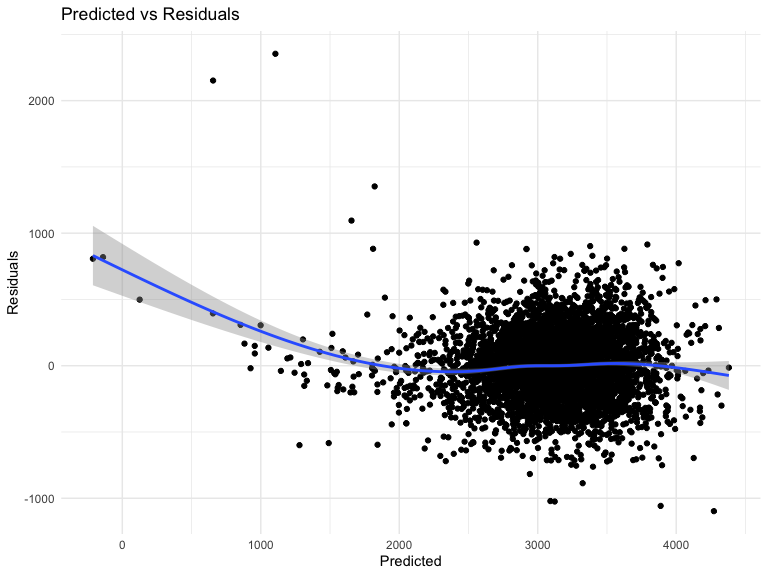
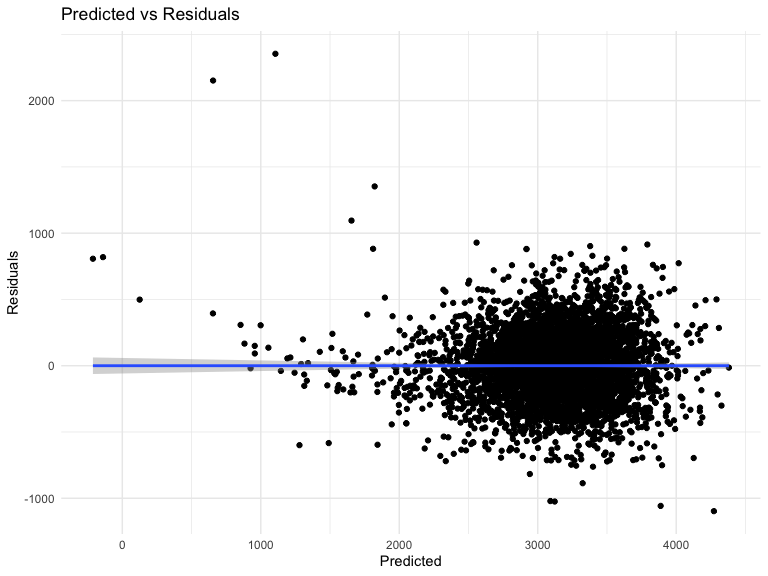
final version 1.0

Changed region(s): [[0.0938, 0.4062, 0.6875, 0.6562], [0.75, 0.625, 0.9688, 0.6875]]

diff --git a/p8105_zl2978.md b/p8105_zl2978.md
@@ -22,25 +22,6 @@ homicide =
     victim_race %in% c("White", "Black"),
     city_state != "Tulsa, AL") %>% 
   select(city_state, resolution, victim_age, victim_race, victim_sex)
-```
-
-    ## Parsed with column specification:
-    ## cols(
-    ##   uid = col_character(),
-    ##   reported_date = col_double(),
-    ##   victim_last = col_character(),
-    ##   victim_first = col_character(),
-    ##   victim_race = col_character(),
-    ##   victim_age = col_double(),
-    ##   victim_sex = col_character(),
-    ##   city = col_character(),
-    ##   state = col_character(),
-    ##   lat = col_double(),
-    ##   lon = col_double(),
-    ##   disposition = col_character()
-    ## )
-
-``` r
 baltimore =
   homicide %>% 
   filter(city_state == "Baltimore, MD")
@@ -109,16 +90,6 @@ birthweight =
          frace = recode(frace, "1" = "White", "2" = "Black", "3" = "Asian", "4" = "Puerto Rican", "8" = "Other", "9" = "Unknown"),
          malform = recode(malform, "0" = "absent", "1" = "present"),
          mrace = recode(mrace, "1" = "White", "2" = "Black", "3" = "Asian", "4" = "Puerto Rican", "8" = "Other"))
-```
-
-    ## Parsed with column specification:
-    ## cols(
-    ##   .default = col_double()
-    ## )
-
-    ## See spec(...) for full column specifications.
-
-``` r
 number_of_na = sum(is.na(birthweight))
 check_incomelete = sum(!complete.cases(birthweight))
 ```
@@ -162,12 +133,192 @@ birthweight %>%
     add_residuals(fit1) %>% 
     ggplot(aes(x = pred, y = resid)) +
         geom_point()  + 
-    geom_smooth() + 
+    geom_smooth(method = "lm") + 
     labs(title = "Predicted vs Residuals", 
        x = "Predicted", 
        y = "Residuals")
 ```
 
-    ## `geom_smooth()` using method = 'gam' and formula 'y ~ s(x, bs = "cs")'
-
 <img src="p8105_zl2978_files/figure-gfm/unnamed-chunk-6-1.png" width="90%" />
+As we can see, the residuals are almost symmetrical to 0, and there is
+no obvious relationship between the predicted value since the points are
+clustered together and the line is almost flat.
+
+Then I will compare my model to two other models.
+
+``` r
+## length at birth and gestational age as predictors (main effects only)
+fit2 = lm(bwt ~ blength + gaweeks, data = birthweight) 
+fit2 %>% 
+  broom::tidy() %>% 
+  knitr::kable()
+```
+
+| term        |     estimate | std.error |  statistic | p.value |
+| :---------- | -----------: | --------: | ---------: | ------: |
+| (Intercept) | \-4347.66707 | 97.958360 | \-44.38281 |       0 |
+| blength     |    128.55569 |  1.989891 |   64.60439 |       0 |
+| gaweeks     |     27.04673 |  1.717930 |   15.74379 |       0 |
+
+``` r
+## One using head circumference, length, sex, and all interactions (including the three-way interaction)
+fit3 = lm(bwt ~ bhead * blength * babysex, data = birthweight) 
+fit3 %>% 
+  broom::tidy() %>% 
+  knitr::kable()
+```
+
+| term                      |      estimate |    std.error |   statistic |   p.value |
+| :------------------------ | ------------: | -----------: | ----------: | --------: |
+| (Intercept)               |  \-801.948671 | 1102.3077046 | \-0.7275180 | 0.4669480 |
+| bhead                     |   \-16.597546 |   34.0916082 | \-0.4868514 | 0.6263883 |
+| blength                   |   \-21.645964 |   23.3720477 | \-0.9261475 | 0.3544209 |
+| babysexmale               | \-6374.868351 | 1677.7669213 | \-3.7996150 | 0.0001469 |
+| bhead:blength             |      3.324444 |    0.7125586 |   4.6655020 | 0.0000032 |
+| bhead:babysexmale         |    198.393181 |   51.0916850 |   3.8830816 | 0.0001047 |
+| blength:babysexmale       |    123.772887 |   35.1185360 |   3.5244319 | 0.0004288 |
+| bhead:blength:babysexmale |    \-3.878053 |    1.0566296 | \-3.6702106 | 0.0002453 |
+
+I will make the comparison by cross-validation.
+
+``` r
+cv_birthweight = 
+    crossv_mc(birthweight, 200) %>% 
+    mutate(
+        train = map(train, as.tibble),
+        test = map(test,as.tibble)
+    ) %>% 
+   mutate(
+        my_model = map(train,~fit1),
+        model1 = map(train,~fit2),
+        model2 = map(train,~fit3)
+    ) %>% 
+    mutate(
+        rmse_my_model = map2_dbl(my_model, test, ~rmse(model = .x,data = .y)),
+        rmse_model1 = map2_dbl(model1, test, ~rmse(model = .x,data = .y)),
+        rmse_model2 = map2_dbl(model2, test, ~rmse(model = .x,data = .y))
+    )
+cv_birthweight %>% 
+  select(starts_with("rmse")) %>% 
+  pivot_longer(
+    everything(),
+    names_to = "model", 
+    values_to = "rmse",
+    names_prefix = "rmse_") %>% 
+  mutate(model = fct_inorder(model)) %>% 
+  ggplot(aes(x = model, y = rmse)) + geom_violin()
+```
+
+<img src="p8105_zl2978_files/figure-gfm/unnamed-chunk-8-1.png" width="90%" />
+As the plot shown, my\_model has the best distribution of RMSE, and the
+model with main effect only has the worst distribution of RMSE.
+
+# Problem 3
+
+I will first read the data.
+
+``` r
+weather_df = 
+  rnoaa::meteo_pull_monitors(
+    c("USW00094728"),
+    var = c("PRCP", "TMIN", "TMAX"), 
+    date_min = "2017-01-01",
+    date_max = "2017-12-31") %>%
+  mutate(
+    name = recode(id, USW00094728 = "CentralPark_NY"),
+    tmin = tmin / 10,
+    tmax = tmax / 10) %>%
+  select(name, id, everything())
+```
+
+Then I will do the bootstrap.
+
+``` r
+boot_strap = 
+  weather_df %>% 
+  bootstrap(n = 5000) %>% 
+  mutate(
+    models = map(strap, ~lm(tmax ~ tmin, data = .x)),
+    tidy_models = map(models, broom::tidy),
+    glance_models = map(models, broom::glance)) %>% 
+  unnest(tidy_models, glance_models) %>% 
+  select(.id, term, estimate, r.squared) %>% 
+    pivot_wider(
+    names_from = term,
+    values_from = estimate) %>% 
+  rename(
+    beta_0 = `(Intercept)`,
+    beta_1 = tmin) %>% 
+  
+  mutate(log_beta = log(beta_0*beta_1)) %>% 
+  select(r.squared, log_beta)
+head(boot_strap)
+```
+
+    ## # A tibble: 6 x 2
+    ##   r.squared log_beta
+    ##       <dbl>    <dbl>
+    ## 1     0.914     2.01
+    ## 2     0.900     2.00
+    ## 3     0.920     2.01
+    ## 4     0.917     2.05
+    ## 5     0.908     2.01
+    ## 6     0.919     2.01
+
+Then I will identify the 2.5% and 97.5% quantiles to provide a 95%
+confidence interval for r.squared and log(β̂ 0∗β̂ 1).
+
+``` r
+quantile(boot_strap$r.squared, probs = c(0.025,0.975)) %>% 
+  knitr::kable(caption = "95% CI for r.suqared")
+```
+
+|       |         x |
+| :---- | --------: |
+| 2.5%  | 0.8940789 |
+| 97.5% | 0.9276765 |
+
+95% CI for r.suqared
+
+``` r
+quantile(boot_strap$log_beta, probs = c(0.025,0.975)) %>% 
+  knitr::kable(caption = "95% CI for log product")
+```
+
+|       |        x |
+| :---- | -------: |
+| 2.5%  | 1.963101 |
+| 97.5% | 2.059000 |
+
+95% CI for log product
+
+I will plot the distribution of r squared estimates.
+
+``` r
+ggplot(data = boot_strap, aes(x = r.squared)) +
+  geom_density() +
+      labs(
+        title = "Distribution of estimates of r.squared",
+        x = "r.squared estimates")
+```
+
+<img src="p8105_zl2978_files/figure-gfm/unnamed-chunk-12-1.png" width="90%" />
+
+I will then plot the distribution of log \(\beta 1\) \* \(\beta 2\)
+estimates.
+
+``` r
+ggplot(data = boot_strap, aes(x = log_beta)) +
+  geom_density() +
+    labs(
+        title = "Distribution of estimates of log product",
+        x = "log product estimates")
+```
+
+<img src="p8105_zl2978_files/figure-gfm/unnamed-chunk-13-1.png" width="90%" />
+
+As we can see, both the distributions of estimates of r squared and
+log(beta0 \* beta1) are approximately normal distribution, and the r
+squared with highest destiny is more than 0.9 which implies tmin is a
+good indicator of tmax. Then reason r.squared is left tailed could be
+the maximum value of r.squared is 1, and the mean is around 0.9.
